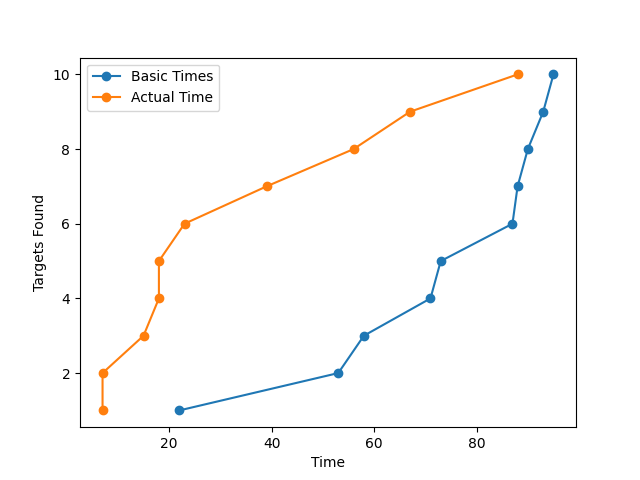
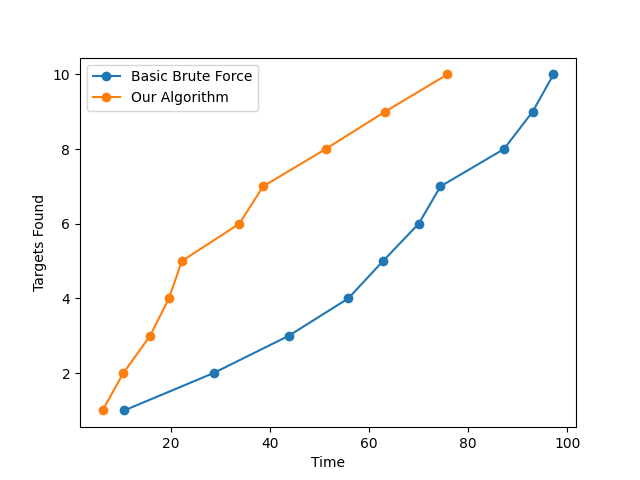
data collected

diff --git a/2d_demo/run_drones.py b/2d_demo/run_drones.py
@@ -1,7 +1,6 @@
 import matplotlib.pyplot as plt
 from matplotlib.animation import FuncAnimation
 from matplotlib.lines import Line2D
-# from matplotlib.ticker import MaxNLocator
 import numpy as np
 import os
 
@@ -18,6 +17,7 @@ delay = 50  # how long to wait until animation restarts
 probabilities = my20x20map()
 target_positions = get_targets(probabilities, 10, seed=0)
 directory = os.path.dirname(os.path.abspath(__file__)) + '/visuals' # location to save to
+save = True
 
 # Note: color options can be found: https://matplotlib.org/stable/gallery/color/named_colors.html
 
@@ -43,28 +43,22 @@ fig, ax = plt.subplots()
 # Note: change color scheme using cmap: https://matplotlib.org/stable/users/explain/colors/colormaps.html
 ax.imshow(probabilities, cmap='YlGn', interpolation='nearest')
 
-# Set the limits and aspect ratio of the plot
+# Set the limits, aspect ratio, and grid lines of the plot
 ax.set_xlim(-0.5, grid_size + 0.5)
 ax.set_ylim(-0.5, grid_size + 0.5)
 ax.set_aspect('equal')
-# ax.xaxis.set_major_locator(MaxNLocator(integer=True))
-# ax.yaxis.set_major_locator(MaxNLocator(integer=True))
-# ax.set_xticks([])
-# ax.set_yticks([])
 ax.set_xticks(np.arange(-0.5, grid_size, 1))
 ax.set_yticks(np.arange(-0.5, grid_size, 1))
 ax.xaxis.set_tick_params(labelsize=0)
 ax.yaxis.set_tick_params(labelsize=0)
-
-# Add grid lines
 ax.grid(True, which='both', color='dimgray', linewidth=1)
 
 # Save the blank probability map
-plt.savefig(os.path.join(directory, 'prob_map_no_targets.png'))
+if save: plt.savefig(os.path.join(directory, 'prob_map_no_targets.png'))
 
 # Create targets and save
 targets = [ax.plot(*target_pos, 'o', color='dodgerblue')[0] for target_pos in target_positions]
-plt.savefig(os.path.join(directory, 'prob_map_with_targets.png'))
+if save: plt.savefig(os.path.join(directory, 'prob_map_with_targets.png'))
 
 # Add the drones
 start_locations = [ax.plot(*drone_pos, '*', color=c, markersize=10)[0] for drone_pos, c in drones_init]
@@ -90,15 +84,17 @@ for drone_path in drone_paths:
 
 # Update function for the animation
 def update(num):
+    global target_positions
+
     if num < len(all_positions[0]):
         for i in range(len(drone_positions)):
             drone_positions[i] = all_positions[i][num]
             drones[i].set_data([drone_positions[i][0]], [drone_positions[i][1]])
 
             # Check if the drone's current position matches any of the target positions
-            # drone_pos_array = np.array(drone_positions[i])
-            if np.any(np.all(np.array(drone_positions[i]) == target_positions, axis=1)):
-                target_hit_times.append(num // 2 + 1)
+            matches = np.where(np.all(np.array(drone_positions[i]) == target_positions, axis=1))[0]
+            target_hit_times.extend([num // res + 1] * matches.size)
+            target_positions = np.delete(target_positions, matches, axis=0)
 
             # Update the drone path
             drone_paths[i].set_data(*zip(*all_positions[i][:num+1]))
@@ -110,8 +106,11 @@ def update(num):
 ani = FuncAnimation(fig, update, init_func=init, frames=len(all_positions[0]) + delay, interval=speed/res, blit=True)
 
 # Save the animation
-ani.save(os.path.join(directory, save_to + '.gif'))
-plt.savefig(os.path.join(directory, save_to + '.png'))
+if save: 
+    ani.save(os.path.join(directory, save_to + '.gif'))
+    plt.savefig(os.path.join(directory, save_to + '.png'))
+else:
+    ani.save(os.path.join(directory, 'temp.gif'))
 
 # Print target hit times
 print(target_hit_times)

diff --git a/2d_demo/graph.py b/2d_demo/graph.py
@@ -1,15 +1,54 @@
 import matplotlib.pyplot as plt
+import numpy as np
+import pandas as pd
 import os
 
-basic_times = [22, 53, 58, 71, 73, 87, 88, 90, 93, 95]
-actual_time = [7, 7, 15, 18, 18, 23, 39, 56, 67, 88]
 
+# ~~~~~~~~~~~~~~~~~~~~~~~~~~~~~~~~~~   RAW  DATA   ~~~~~~~~~~~~~~~~~~~~~~~~~~~~~~~~~~
+basic_times = [
+    [22, 53, 58, 71, 73, 87, 88, 90, 93, 95],
+    [1, 6, 35, 38, 50, 67, 68, 95, 97, 99],
+    [16, 21, 26, 68, 73, 73, 73, 77, 90, 95],
+    [13, 23, 55, 55, 61, 63, 70, 84, 90, 98],
+    [1, 40, 45, 47, 57, 60, 73, 90, 95, 99]
+]
+
+actual_time = [
+    [7, 7, 15, 18, 18, 23, 39, 56, 67, 88],
+    [1, 12, 13, 22, 25, 26, 27, 38, 38, 43],
+    [13, 18, 21, 22, 26, 32, 35, 49, 55, 55],
+    [8, 9, 13, 18, 24, 33, 34, 46, 57, 91],
+    [2, 6, 17, 18, 18, 55, 58, 67, 99, 102]
+]
+
+# ~~~~~~~~~~~~~~~~~~~~~~~~~~~~~~~~~~  MAKE  TABLE  ~~~~~~~~~~~~~~~~~~~~~~~~~~~~~~~~~~
+# Convert basic_times and actual_time to numpy arrays
+basic_times_np = np.array(basic_times)
+actual_time_np = np.array(actual_time)
+
+# Calculate the averages of basic_times and actual_time
+basic_times_avg = np.mean(basic_times_np, axis=0)
+actual_time_avg = np.mean(actual_time_np, axis=0)
+
+# Create a DataFrame for basic_times and actual_time
+df = pd.DataFrame(np.concatenate((basic_times_np, actual_time_np), axis=0), 
+                  columns=[f'Target {i+1}' for i in range(basic_times_np.shape[1])])
+
+# Add the averages to the DataFrame
+df.loc['Basic Brute Force'] = basic_times_avg
+df.loc['Our Algorithm'] = actual_time_avg
+
+# Display the DataFrame
+print(df)
+
+
+# ~~~~~~~~~~~~~~~~~~~~~~~~~~~~~~~~~~ MAKE GRAPHS  ~~~~~~~~~~~~~~~~~~~~~~~~~~~~~~~~~~
 # Create a list of targets found
-targets_found = list(range(1, len(basic_times) + 1))
+targets_found = list(range(1, len(basic_times_avg) + 1))
 
 # Create the plot
-plt.plot(basic_times, targets_found, marker='o', label='Basic Times')
-plt.plot(actual_time, targets_found, marker='o', label='Actual Time')
+plt.plot(basic_times_avg, targets_found, marker='o', label='Basic Brute Force')
+plt.plot(actual_time_avg, targets_found, marker='o', label='Our Algorithm')
 
 # Set the labels and legend
 plt.ylabel('Targets Found')

diff --git a/2d_demo/algorithms.py b/2d_demo/algorithms.py
@@ -46,7 +46,7 @@ def my20x20path(start, res):
         'rrrurrurrurrrurrrurrrrurrdldlllldllldllldrdlluldllrrrrrrurrurrrurrrruddllldllldlllrrrrrrrrrull                 ',
         'dluldluldluurulldluldllurulluulrrdrurddrrrrrddrrrulluulllllurrrrrrrddlu                                        ',
         'llldlllldllluuuuuuulddddddddrlluuuuuuuuurrrdddddddrurrrrurrrruuuulllllluulllrddddddrrrurrrruulllllluuddddrurrrr',
-        'dddrrurddruurdddldrruuurddrrluululullllldddrdrddrrrdddddddddlldlldllururrurruuuuuuullluu                       ',
+        'dddrrurddruurdddldrruuurddrrluululullllldddrdrddrrrdddddddddlldlldllururrurruuuuuuullluululuuuuurrrrrrdr       ',
 
     ]
 
